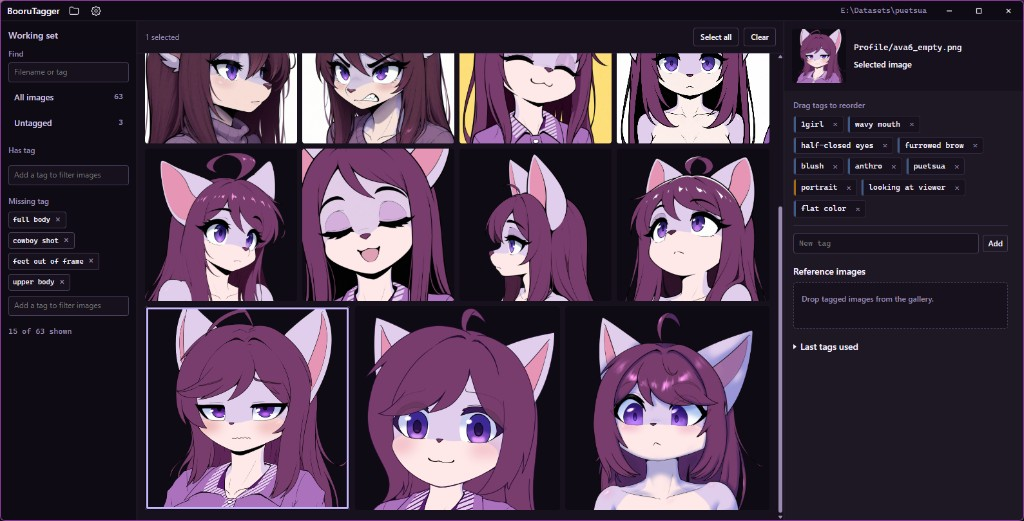
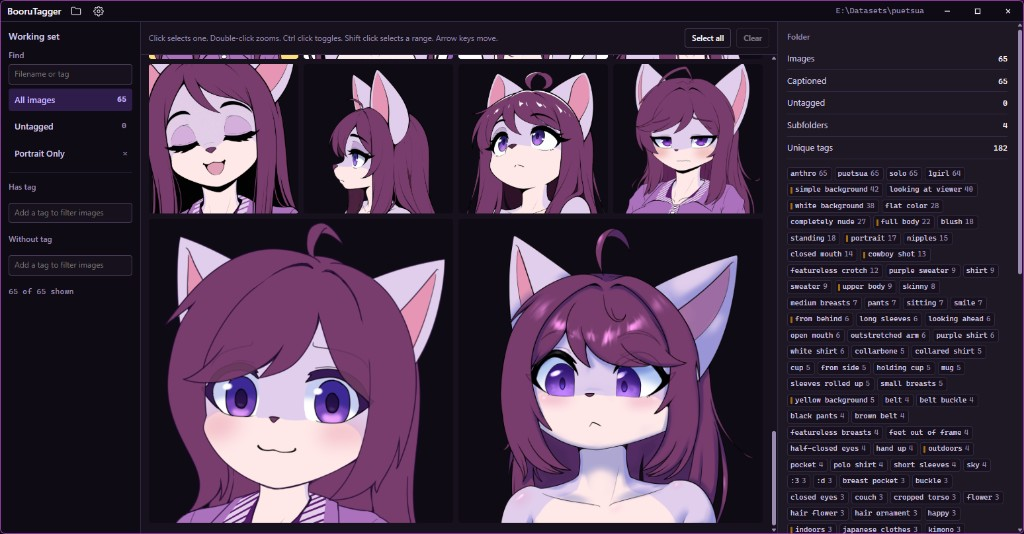
Show the current gallery and folder tag counts in the README preview.

diff --git a/README.md b/README.md
@@ -2,7 +2,7 @@
 
 Work in progress desktop app for captioning image datasets used in LoRA training. Each image keeps a sidecar `.txt` of comma-separated tags, in the order you set.
 
-![BooruTagger, with a filtered gallery and the tag editor open](docs/preview.png)
+![BooruTagger, with the gallery open and folder tag counts](docs/preview.png)
 
 Open a folder of images. Filter the working set, select one image or many, and edit the tags. Changes are written back to the `.txt` files. The app is still changing, so expect rough edges. Earlier design mocks are in `design/`.
 
